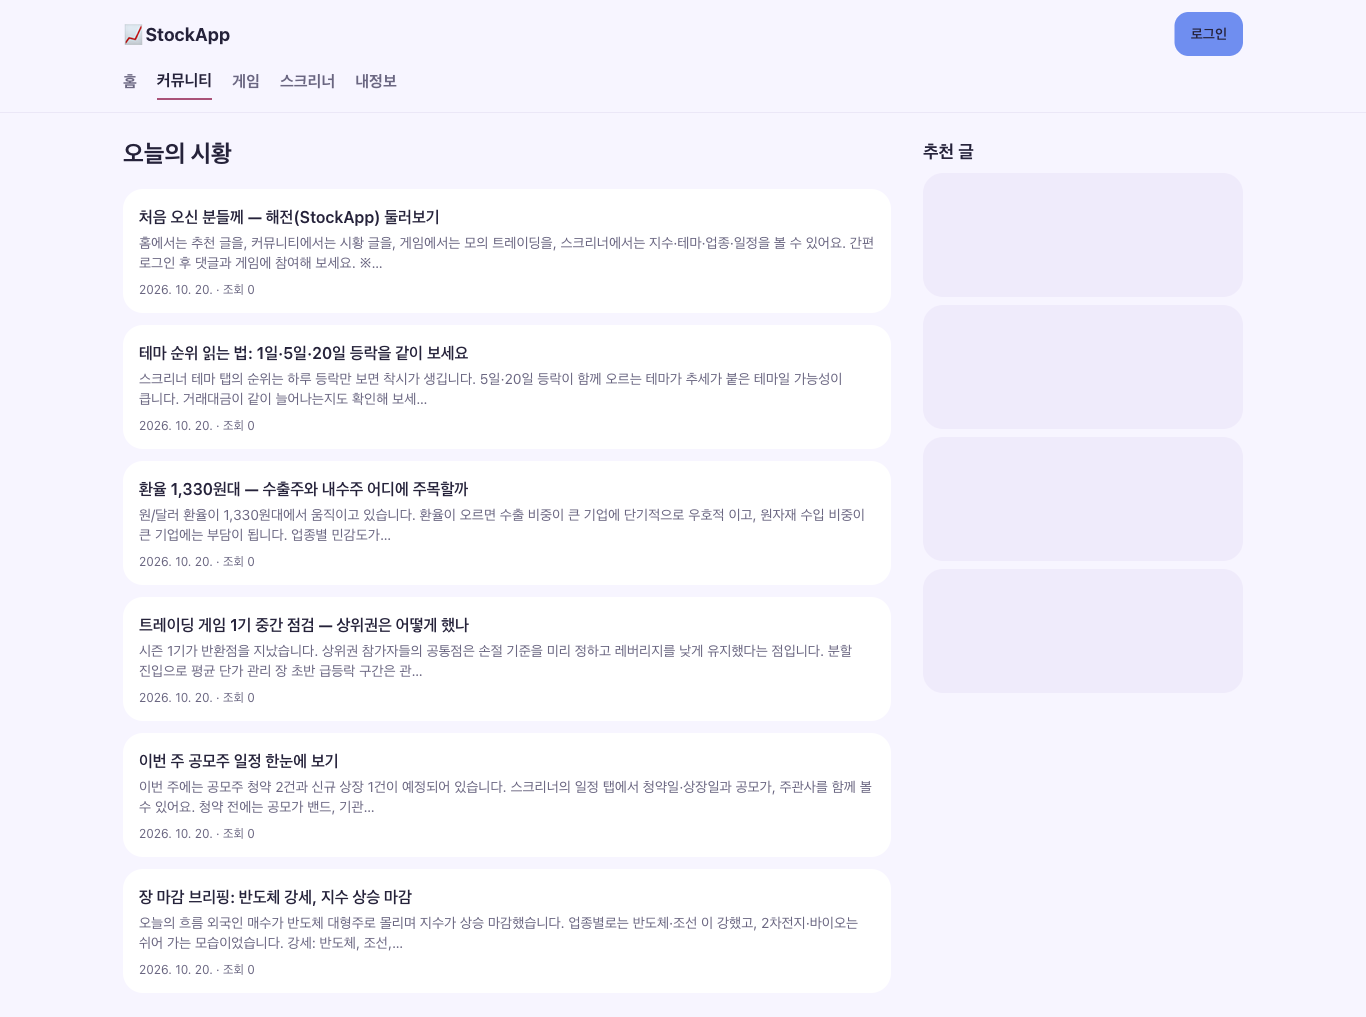
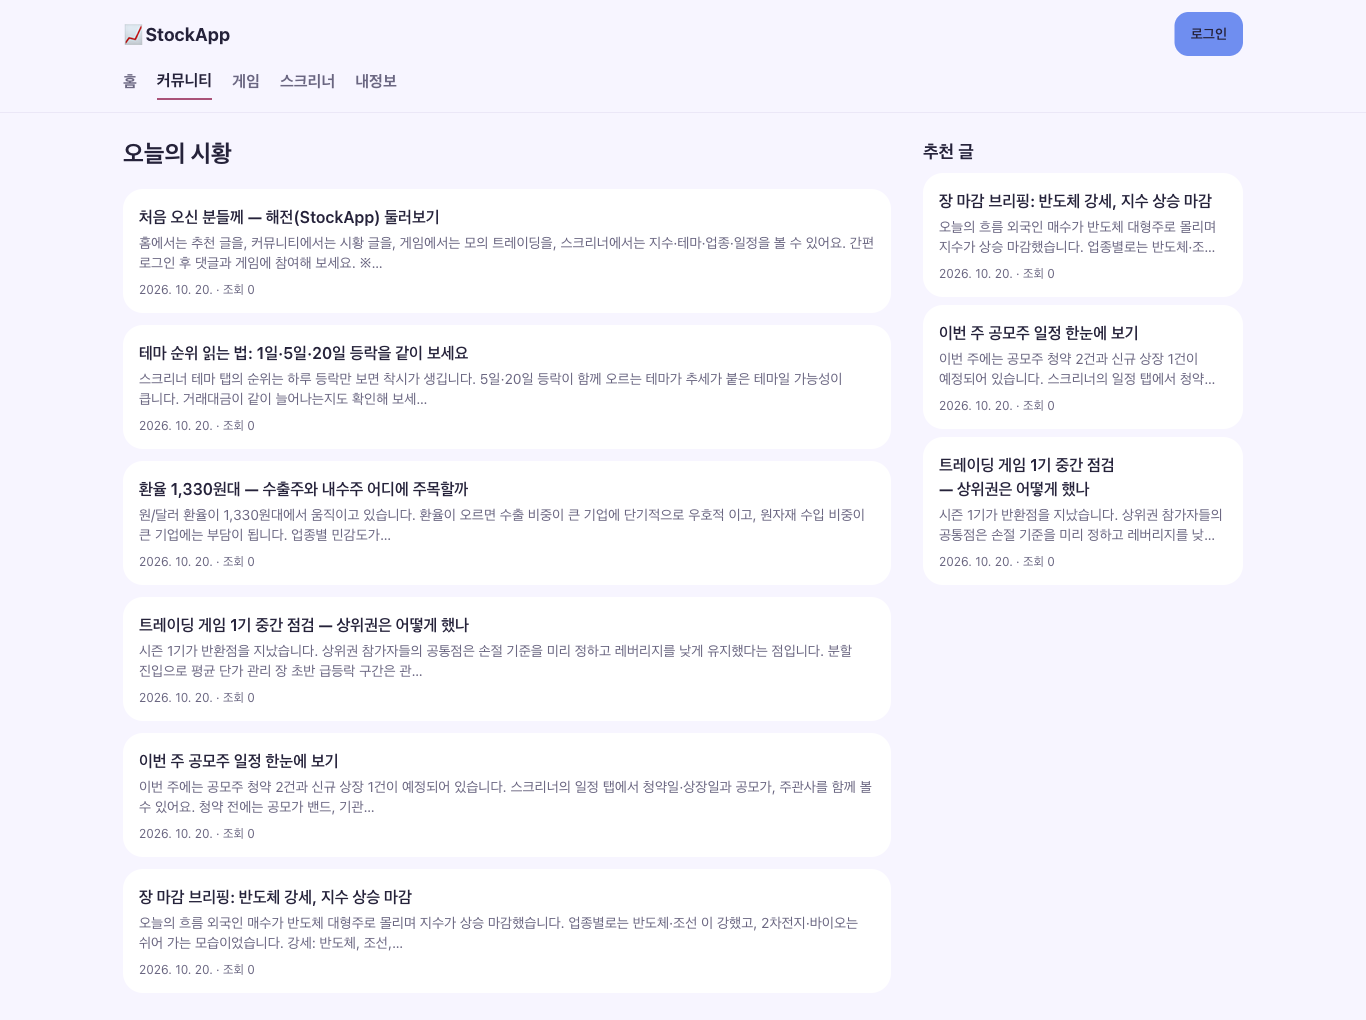
docs: 기능 보고서 — 게시판 캡처 추천 글 칸 다시 찍음, 웹 재캡처 수 14장으로 정정
Claude-Session: https://claude.ai/code/session_01T814x7jTTuEcJBrCqKt8Pf

diff --git a/docs/feature-report/index.html b/docs/feature-report/index.html
@@ -78,7 +78,7 @@ a{color:var(--accent)}
 <tr>
 <td><a href="#web">web.md</a></td>
 <td>사용자 웹 <code>web_client</code></td>
-<td>19장(13장은 10-24에 다시 찍음)</td>
+<td>19장(14장은 10-24에 다시 찍음)</td>
 </tr>
 <tr>
 <td><a href="#guide">screener-guide.md</a></td>
@@ -89,7 +89,7 @@ a{color:var(--accent)}
 </table>
 <h2 id="overview-2">업데이트 기록</h2>
 <h3 id="overview-3">2026-10-24 — impeccable 디자인 정리 반영 (커밋 31개, <code>afb7eab</code>~<code>e7c7e23</code>)</h3>
-<p>impeccable로 웹 전체를 평가하고 고친 작업(점수 25 → 27/40), 같은 내용을 앱에 옮긴 작업, 스크리너 탭 관리자 스위치를 반영했습니다. <strong>웹 13장, 앱 2장, 관리자 1장을 새로 찍었습니다.</strong></p>
+<p>impeccable로 웹 전체를 평가하고 고친 작업(점수 25 → 27/40), 같은 내용을 앱에 옮긴 작업, 스크리너 탭 관리자 스위치를 반영했습니다. <strong>웹 14장, 앱 2장, 관리자 1장을 새로 찍었습니다.</strong></p>
 <table>
 <thead>
 <tr>

diff --git a/docs/feature-report/README.md b/docs/feature-report/README.md
@@ -9,14 +9,14 @@
 |---|---|---|
 | [admin.md](admin.md) | 관리자 웹 `admin_web` | 18장 |
 | [app.md](app.md) | 모바일 앱 `mobile` | 18장 |
-| [web.md](web.md) | 사용자 웹 `web_client` | 19장(13장은 10-24에 다시 찍음) |
+| [web.md](web.md) | 사용자 웹 `web_client` | 19장(14장은 10-24에 다시 찍음) |
 | [screener-guide.md](screener-guide.md) | 초보자용 안내 — 주도주(CAN SLIM)·조건검색·패턴의 판정 로직, 용어, 근거와 정합성 | — |
 
 ## 업데이트 기록
 
 ### 2026-10-24 — impeccable 디자인 정리 반영 (커밋 31개, `afb7eab`~`e7c7e23`)
 
-impeccable로 웹 전체를 평가하고 고친 작업(점수 25 → 27/40), 같은 내용을 앱에 옮긴 작업, 스크리너 탭 관리자 스위치를 반영했습니다. **웹 13장, 앱 2장, 관리자 1장을 새로 찍었습니다.**
+impeccable로 웹 전체를 평가하고 고친 작업(점수 25 → 27/40), 같은 내용을 앱에 옮긴 작업, 스크리너 탭 관리자 스위치를 반영했습니다. **웹 14장, 앱 2장, 관리자 1장을 새로 찍었습니다.**
 
 | 영역 | 바뀐 것 | 문서 |
 |---|---|---|
